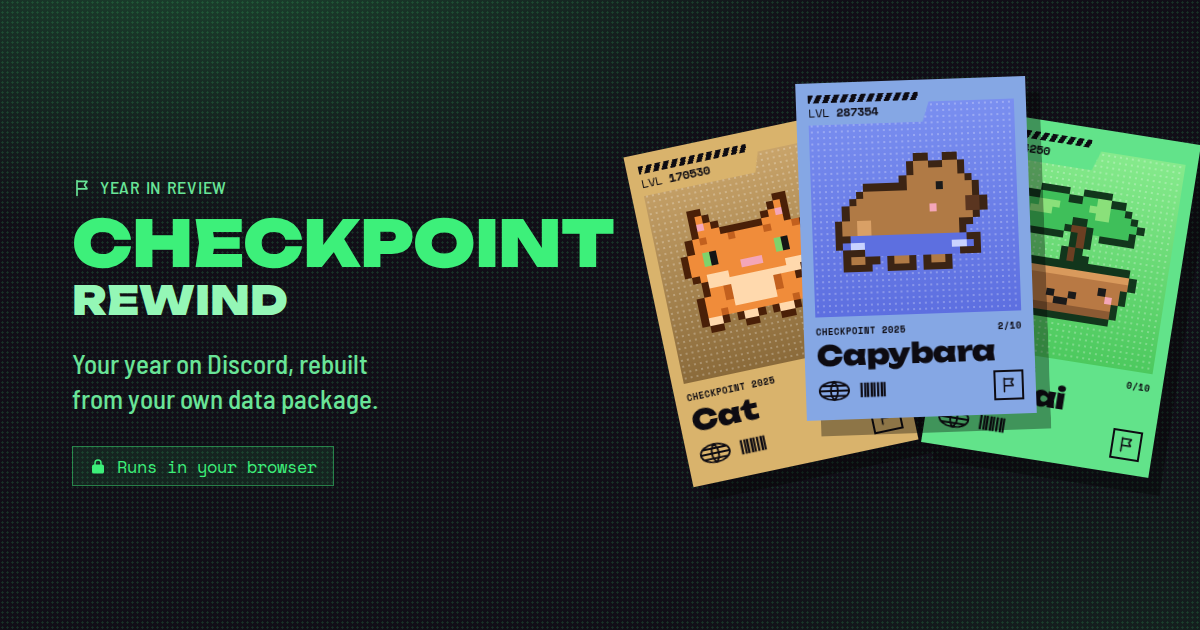
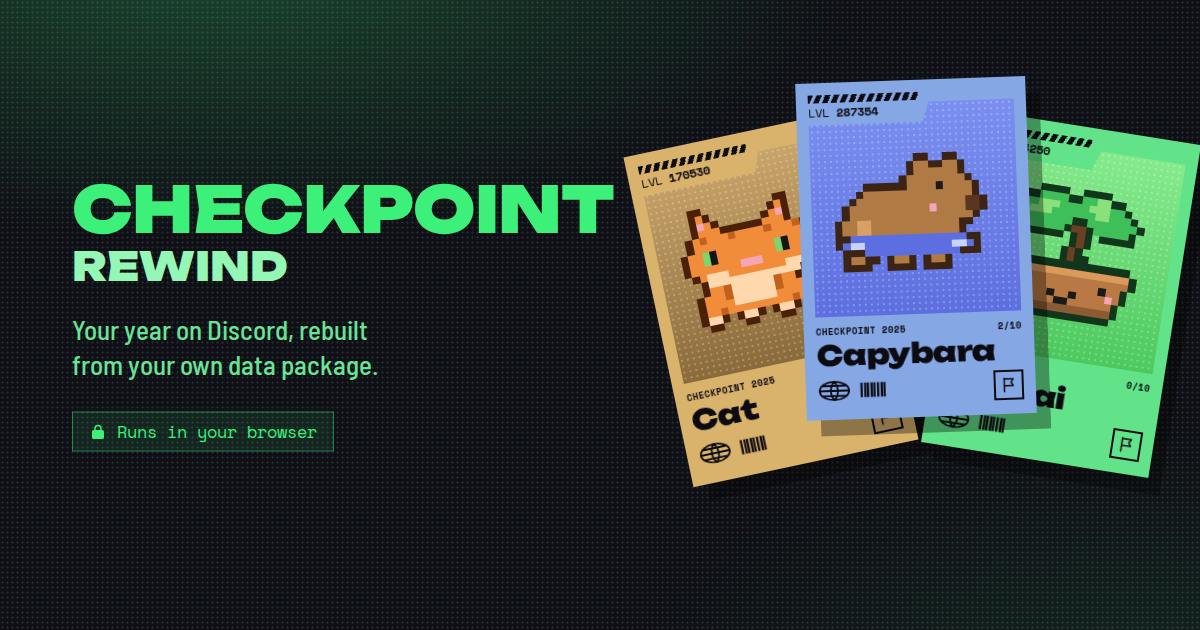
Tidy the Discord link preview

Changed region(s): [[0.0617, 0.2714, 0.5242, 0.754]]

diff --git a/web/index.html b/web/index.html
@@ -16,7 +16,7 @@
   <meta property="og:type" content="website">
   <meta property="og:site_name" content="Checkpoint Rewind">
   <meta property="og:title" content="Checkpoint Rewind">
-  <meta property="og:description" content="Your year on Discord, rebuilt from your own data package. Runs in your browser; your data is never uploaded.">
+  <meta property="og:description" content="See your messages, voice hours, top servers, games and your Checkpoint card for any year. Works with “Use data to improve Discord” turned off.">
   <meta property="og:url" content="https://checkpoint.itsmias.xyz/">
   <meta property="og:image" content="https://checkpoint.itsmias.xyz/assets/og.png">
   <meta property="og:image:width" content="1200">
@@ -43,11 +43,11 @@
       },
       {
         "type": 10,
-        "content": "# Checkpoint Rewind\nYour year on Discord, rebuilt from your own data package: messages, voice hours, top servers, games and your Checkpoint card."
+        "content": "# Checkpoint Rewind\nSee your messages, voice hours, top servers, games and your Checkpoint card for any year."
       },
       {
         "type": 10,
-        "content": "-# Runs in your browser. Your package is never uploaded. Works with “Use data to improve Discord” turned off."
+        "content": "-# Works with “Use data to improve Discord” turned off."
       },
       {
         "type": 1,
@@ -65,10 +65,6 @@
             "url": "https://github.com/ItsMias/checkpoint"
           }
         ]
-      },
-      {
-        "type": 10,
-        "content": "-# Unofficial fan project. Not affiliated with Discord."
       }
     ]
   }
